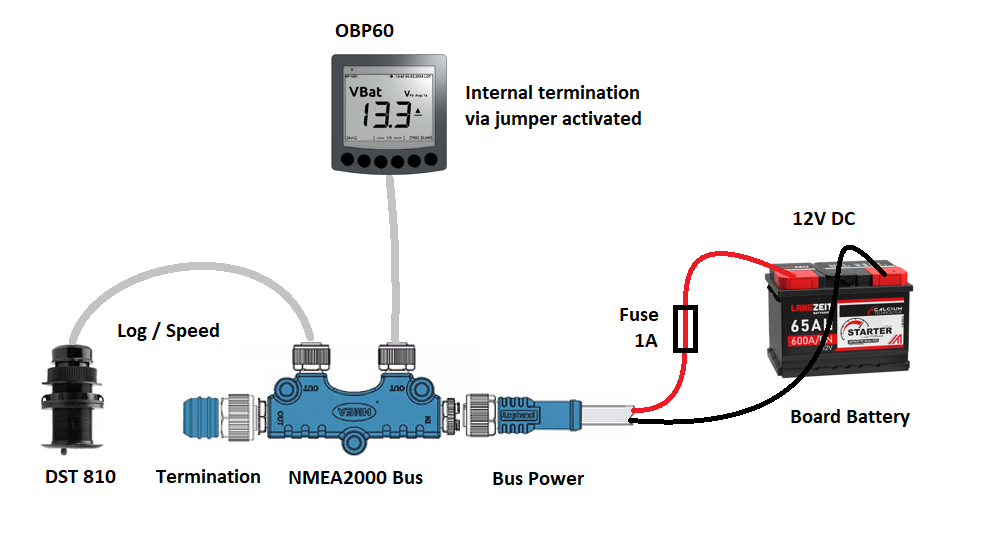
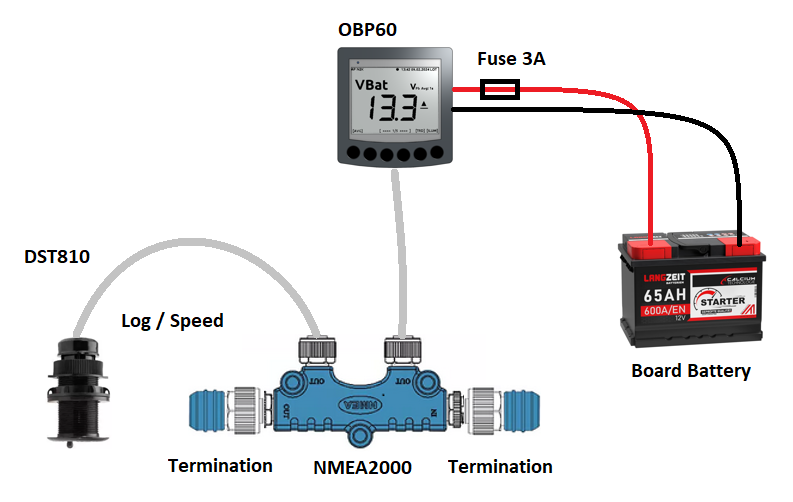
changes

Changed region(s): [[0.0303, 0.0299, 0.9685, 0.9562]]

diff --git a/docs/usermanual/bussystems.rst b/docs/usermanual/bussystems.rst
@@ -127,7 +127,7 @@ Abb.: NMEA2000 Minimal-Konfiguration mit einem Sensor
 Die Stromversorgung des NMEA2000-Bus kann auch über das OBP60 erfolgen. Die Einspeisung in den Bus sieht dann so aus:
 
 .. image:: ../pics/OBP60_NMEA2000_Connection_Power.png
-             :scale: 60%	
+             :scale: 50%	
 Abb.: NMEA2000-Verbindung mit Stromversorgung des NMEA2000-Bus des OBP60
 
 .. warning::
@@ -137,4 +137,4 @@ Ein Anwendungsbeispiel könnte dann so aussehen wie im folgenden Bild. Die Bus-T
 
 .. image:: ../pics/NMEA2000_Sample_Setup_Minimal_Configuration_2.png
              :scale: 60%	
-Abb.: NMEA2000 Minimal-Konfiguration mit einem Sensor
+Abb.: NMEA2000 Minimal-Konfiguration mit Buseinspeisung
